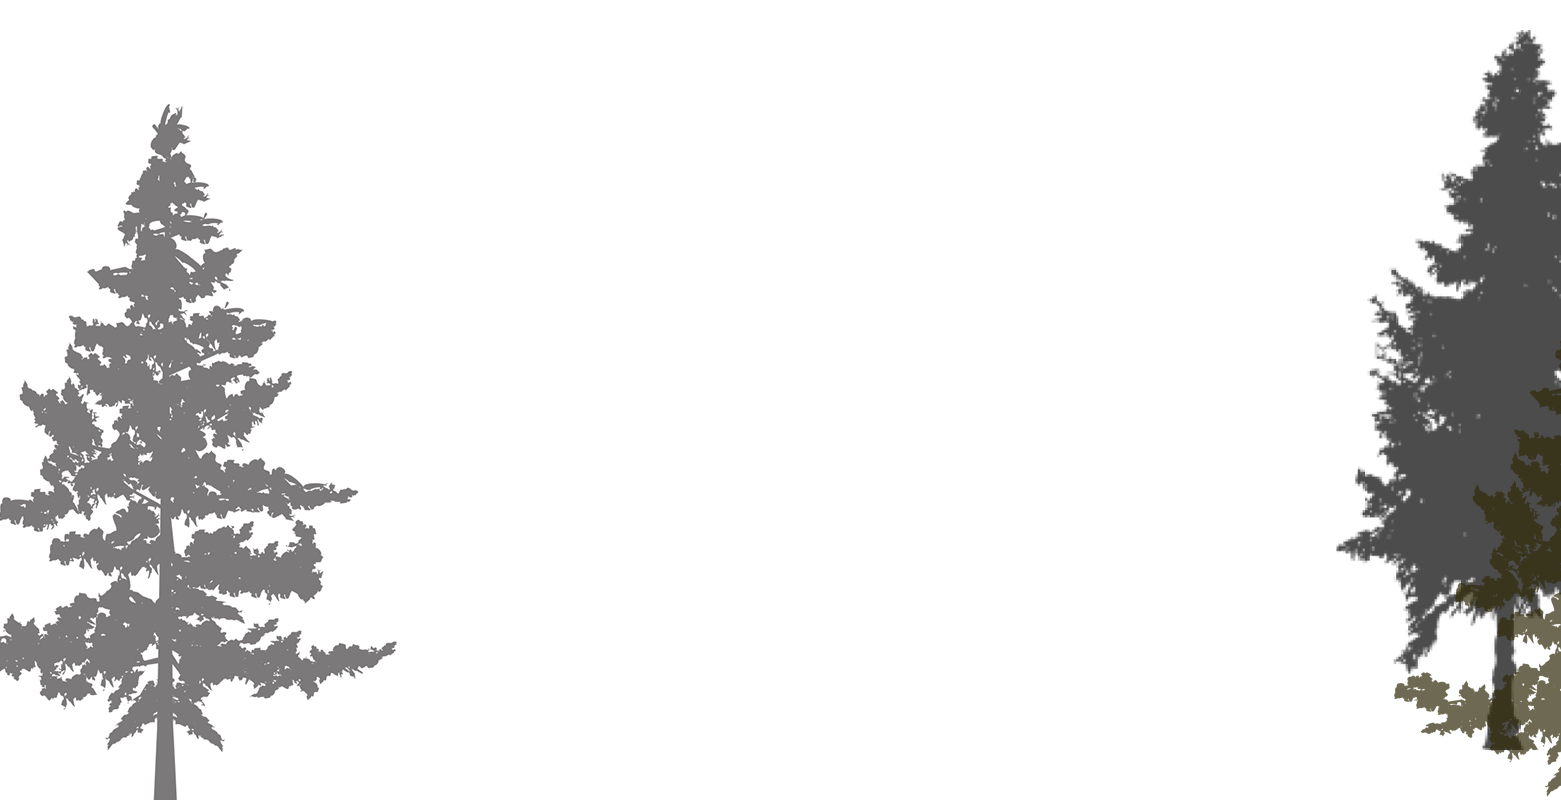
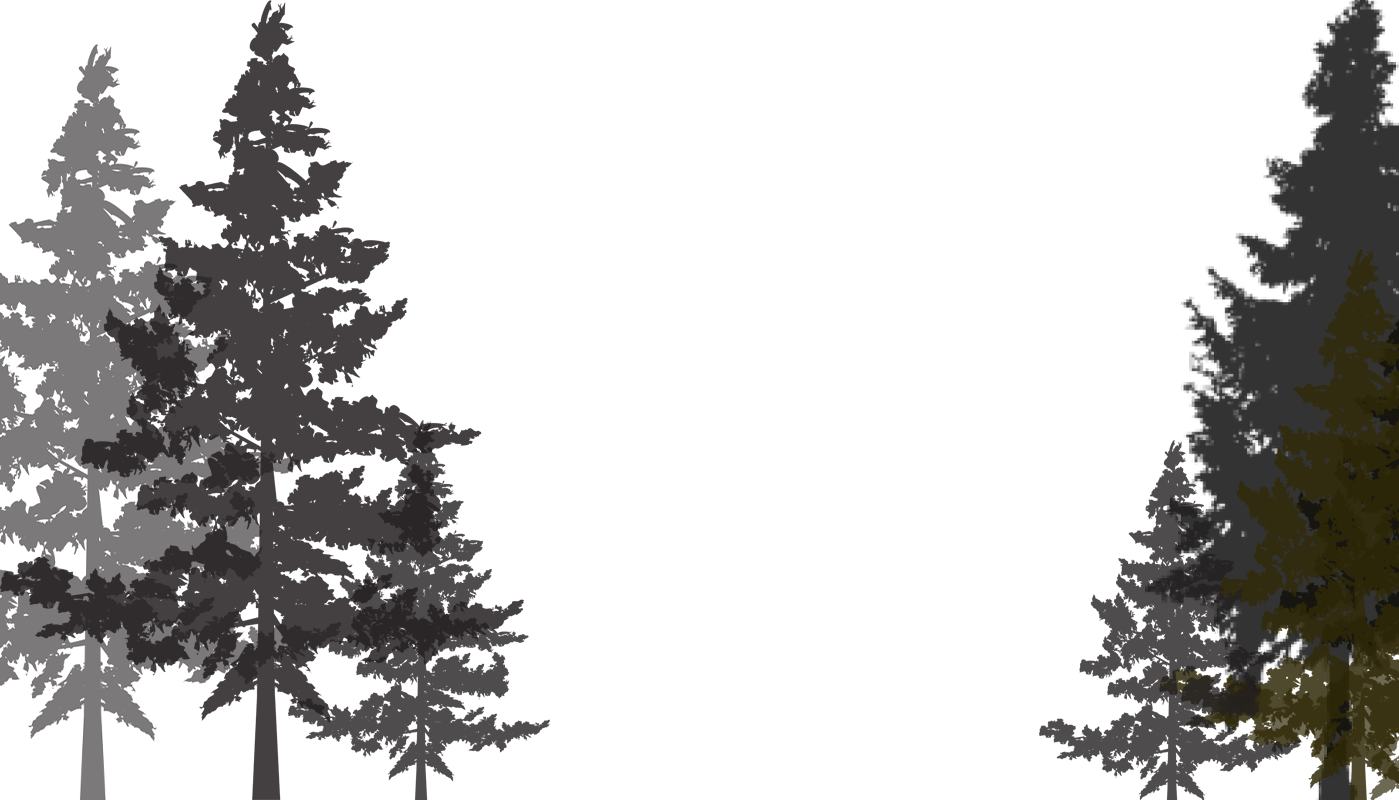
added moon and moved trees

diff --git a/examples/scss/partials/_tree.scss b/examples/scss/partials/_tree.scss
@@ -2,5 +2,13 @@
     background-image: url(../assets/branding/trees.png);
     background-repeat: no-repeat;
     background-attachment: fixed;
-    background-position: 100%;
+    background-size: cover;
+}
+
+#zen-intro {
+    background-image: url(../assets/logo.png);
+    background-repeat: no-repeat;
+    background-attachment: fixed;
+    background-position-x: 250px;
+    background-position-y: 25px;
 }
